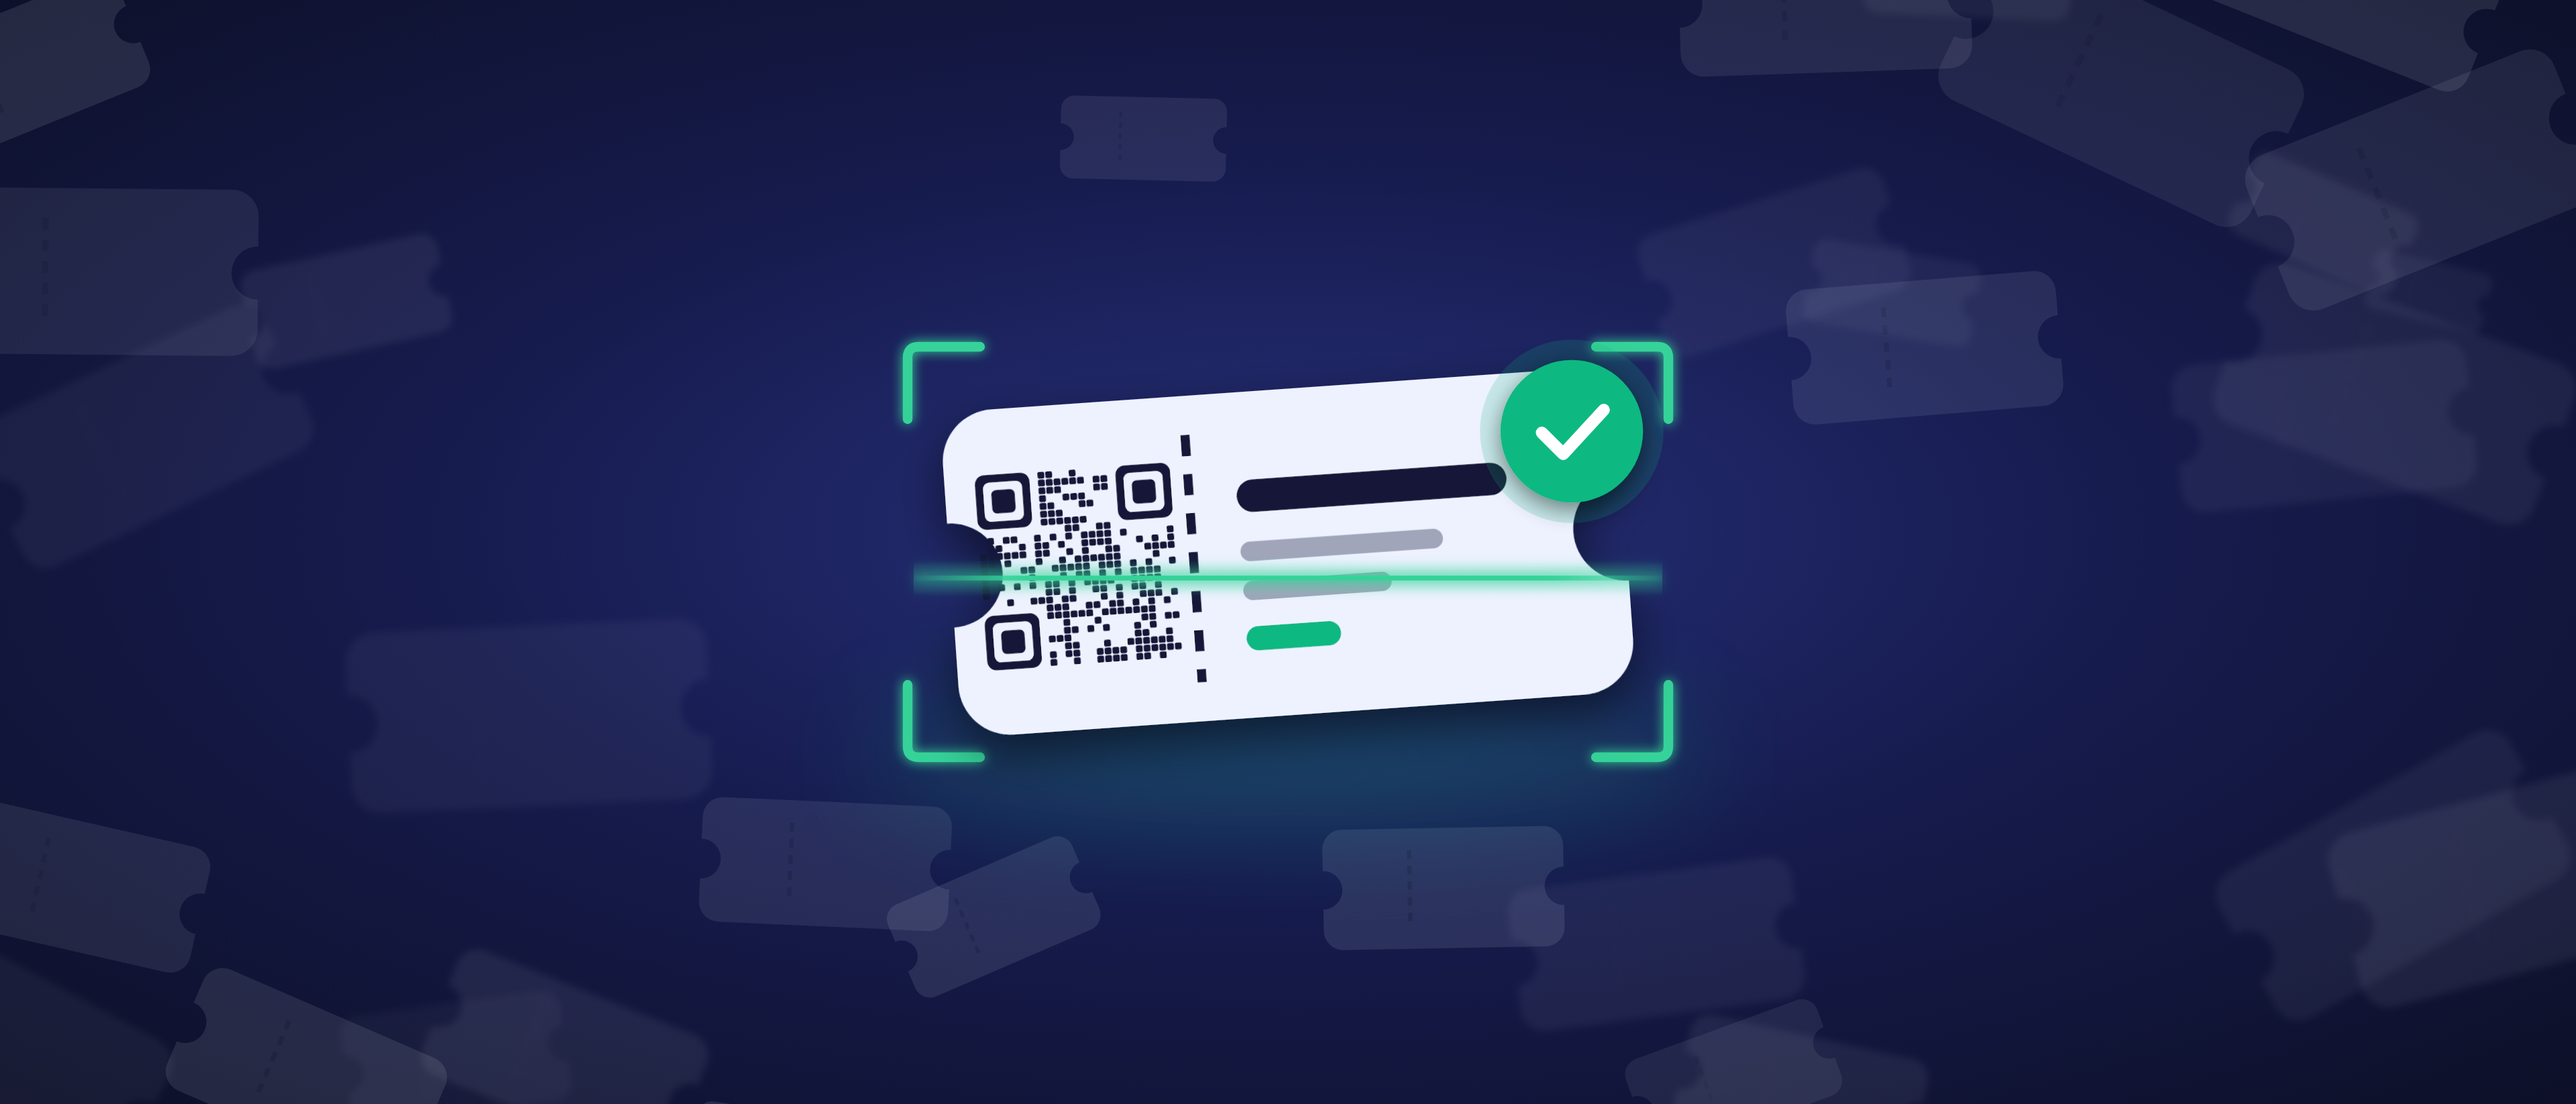
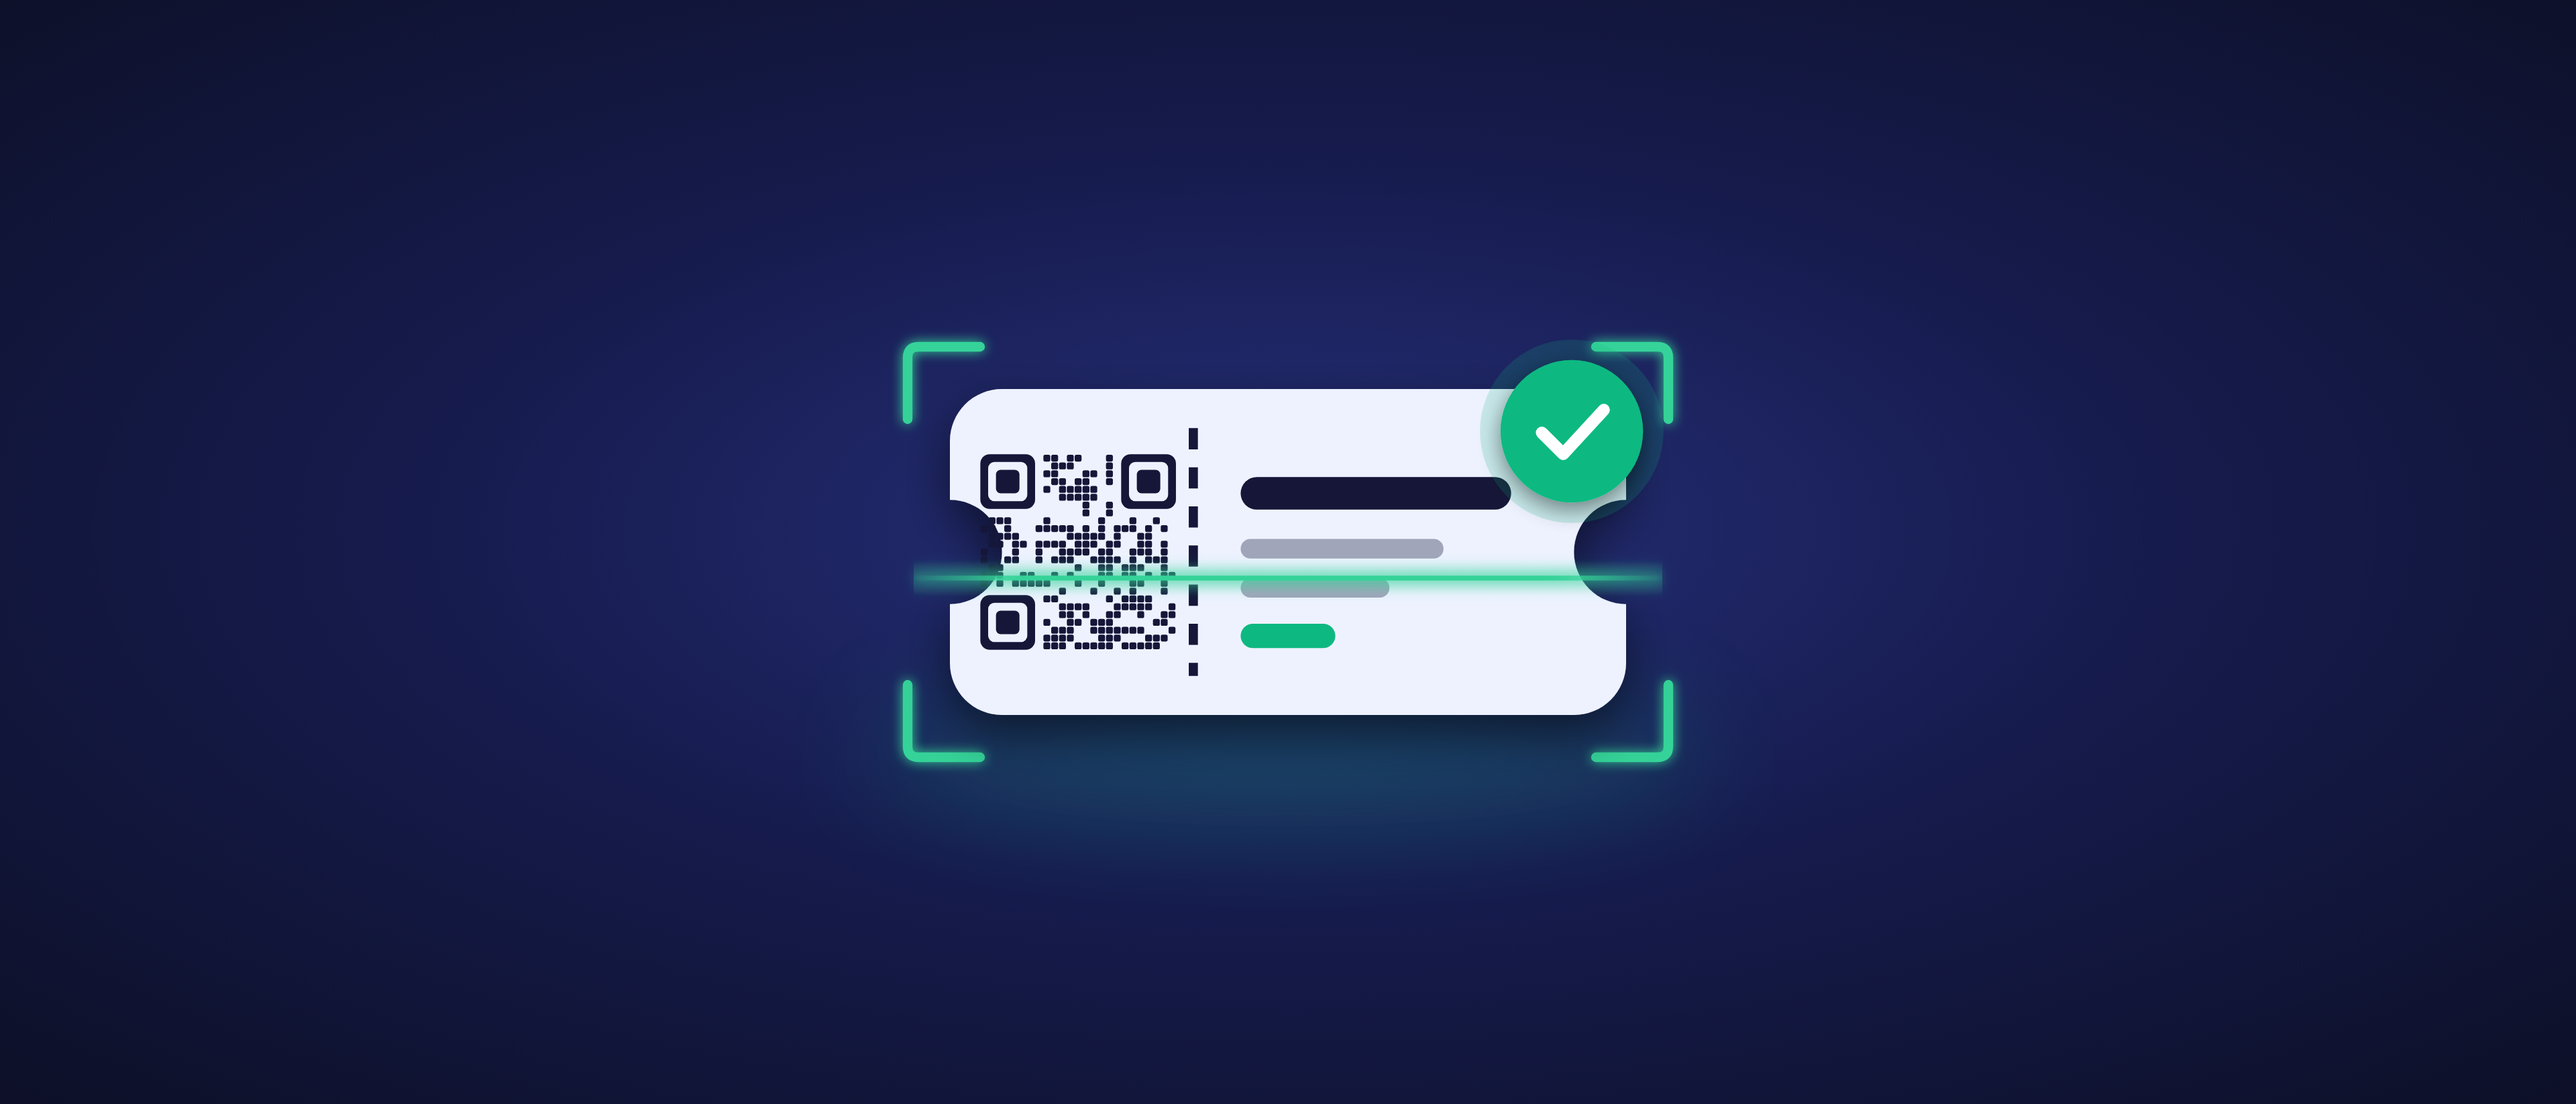
App Store creative assets: plain level ticket, no background tickets

diff --git a/Ticket Check In/AppStore/creative-assets.html b/Ticket Check In/AppStore/creative-assets.html
@@ -6,7 +6,7 @@
     ?asset=search  3840 x 2560 (3:2)
   The hero sits inside Apple's central "art safe area" for each canvas; the
   edges are background-only tickets, so any crop the App Store applies still
-  reads. No text: the store overlays the app name and Get button itself.
+  reads. Deliberately plain: one level ticket, no background clutter. No text: the store overlays the app name and Get button itself.
 -->
 <html>
 <head>
@@ -64,34 +64,6 @@ function qr(size, n = 25) {
     return out.join('');
 }
 
-// Background: a field of faint tickets, kept clear of the hero.
-function backgroundTickets() {
-    const out = [];
-    const [sx0, sy0, sx1, sy1] = SPEC.safe;
-    const clearRx = (sx1 - sx0) / 2 + 260 * S, clearRy = (sy1 - sy0) / 2 + 200 * S;
-    let placed = 0, tries = 0;
-    const count = ASSET === 'header' ? 34 : 46;
-    while (placed < count && tries < 4000) {
-        tries++;
-        const tw = 180 + rand() * 360, th = tw * 0.5;
-        const x = rand() * (W + 200) - 100, y = rand() * (H + 200) - 100;
-        const dx = (x - CX) / clearRx, dy = (y - CY) / clearRy;
-        if (dx * dx + dy * dy < 1) continue;
-        const depth = rand();                      // 0 = far, 1 = near
-        const op = 0.035 + depth * 0.075;
-        const rot = (rand() - 0.5) * 60;
-        const blur = depth < 0.5 ? 'url(#blurFar)' : '';
-        const checked = false;
-        out.push(`<g transform="translate(${x},${y}) rotate(${rot}) translate(${-tw / 2},${-th / 2})" filter="${blur}">
-            <path d="${ticketPath(tw, th)}" fill="${PAPER}" opacity="${op}"/>
-            <line x1="${tw * 0.36}" y1="${th * 0.18}" x2="${tw * 0.36}" y2="${th * 0.82}" stroke="${NAVY_DEEP}" stroke-opacity="${op * 2}" stroke-width="${th * 0.035}" stroke-dasharray="${th * 0.07} ${th * 0.06}"/>
-            ${checked ? `<circle cx="${tw * 0.86}" cy="${th * 0.12}" r="${th * 0.15}" fill="${GREEN}" opacity="${op * 3}"/>` : ''}
-        </g>`);
-        placed++;
-    }
-    return out.join('');
-}
-
 function hero() {
     const tw = 1120 * S, th = 540 * S;
     const stub = tw * 0.36;
@@ -108,7 +80,7 @@ function hero() {
       <g fill="none" stroke="${GREEN_LIGHT}" stroke-width="${sw}" stroke-linecap="round" filter="url(#softGlow)">
         ${corner(bx0, by0, 1, 1)}${corner(bx1, by0, -1, 1)}${corner(bx0, by1, 1, -1)}${corner(bx1, by1, -1, -1)}
       </g>
-      <g transform="rotate(-4)">
+      <g>
         <g transform="translate(${-tw / 2},${-th / 2})" filter="url(#ticketShadow)">
           <path d="${ticketPath(tw, th)}" fill="${PAPER}"/>
           <line x1="${stub}" y1="${th * 0.12}" x2="${stub}" y2="${th * 0.88}" stroke="${INK}" stroke-width="${th * 0.028}" stroke-dasharray="${th * 0.065} ${th * 0.055}" stroke-linecap="butt"/>
@@ -155,7 +127,6 @@ svg.innerHTML = `
       <stop offset="0.5" stop-color="${GREEN_LIGHT}" stop-opacity="0.5"/>
       <stop offset="1" stop-color="${GREEN_LIGHT}" stop-opacity="0"/>
     </linearGradient>
-    <filter id="blurFar" x="-20%" y="-20%" width="140%" height="140%"><feGaussianBlur stdDeviation="${6 * S}"/></filter>
     <filter id="blurGlow" x="-50%" y="-100%" width="200%" height="300%"><feGaussianBlur stdDeviation="${90 * S}"/></filter>
     <filter id="softGlow" x="-20%" y="-60%" width="140%" height="220%">
       <feGaussianBlur in="SourceGraphic" stdDeviation="${10 * S}" result="b"/>
@@ -169,7 +140,6 @@ svg.innerHTML = `
     </filter>
   </defs>
   <rect width="${W}" height="${H}" fill="url(#bg)"/>
-  ${backgroundTickets()}
   ${hero()}
   <g id="guides" fill="none" stroke="#ff3b30" stroke-width="6" stroke-dasharray="30 20">
     <rect x="${gx0}" y="${gy0}" width="${gx1 - gx0}" height="${gy1 - gy0}"/>
